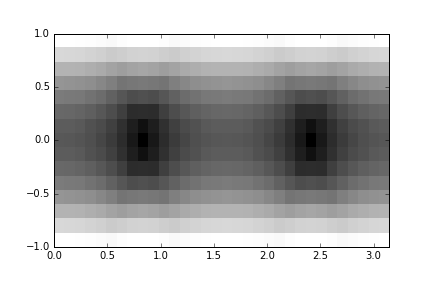
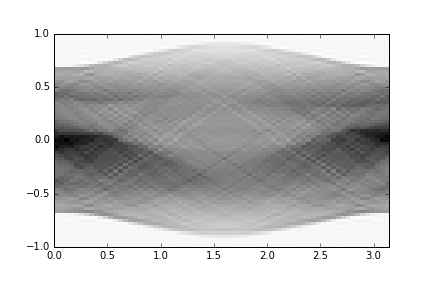
PFFT updates

diff --git a/pfft.py b/pfft.py
@@ -12,90 +12,124 @@ import warnings
 import matplotlib.pyplot as pp
 
 def fft(img):
-    nfft_zp_factor = 1.2
+    
     A = np.ones((11,11))
-    #A = pr.image_read( 'TomoData/PhantomData/sl.mat')
-    r,c = A.shape
+    A = pr.image_read('sl69.mat', dtype=np.float32)
+    
+    #padding to nearest 2*(N+1)+1 <--- to make odd
+    r1,c1 = A.shape
     global PAD, r
-    PAD = (r+3)/2
+    PAD = (r1+3)/2
     print(PAD)
     A = np.pad(A, PAD, 'minimum')
     r,c = A.shape
     
-    N = r-1
-    M = r-1
-    m = M
-    dtheta = np.pi/M
-    F = np.zeros((r,M))+0j
+    #Set various endpoints and midpoints
+    N = r-1 #N, as used in II.5,II.6,II.9,II.10 etc.
+    M = r1-1 #number of radial lines (not including 180degrees)
+    m = M # assigning m for use in loop
+    CTR = (N+1)/2
+    ACTR = M/2
+    dtheta = np.pi/M 
+    
+    
     
     if np.mod(M,4) == 0:
         L = M/4
     elif np.mod(M,2) == 0:
         L = (M-2)/4
-
+     
+    print(L)
+    print('^^Required levels^^')   
+    #initialization of FFT and FrFT matrices
+    F = np.zeros((r,M))+0j
     fx = np.zeros((r,c))+0j
-    fy = np.zeros((r,c))+0j   
-    CTR = (N+1)/2
-    ACTR = M/2
-    print(ACTR)
-    C = range(-N/2,N/2 + 1)
-    R = C[::-1]
-    SN = C 
+    fy = np.zeros((r,c))+0j       
+
+    #map python indexes to -N/2 to N/2 cartesian grid
+    C = range(-N/2,N/2 + 1) #column mapping
+    R = C[::-1] #row mapping
+    SN = C #n sum mapping for FrFt
 
     for l in range(1,L+1):
         # scaling by alpha_l
         alpha = np.cos(l*dtheta)
+        
+        #loop for II.5, II.6
         for i in range(0,r) :
             for j in range (0,c) :
                 fx[i,j]= 0
+                #n summation loop
                 for n in range(0,r):
                     #II.5 FrFT along rows
                     fx[i,j] = fx[i,j] + A[i,n]*np.exp(-1j*2*np.pi*C[j]*alpha*SN[n]/(N+1))
-        
-        for j in range (0,c) :  
-            for i in range(0,r) :
-                fy[i,j] = 0
-                for n in range(0,c):
-                    #II.6 FrFT along columns
-                    fy[i,j] = fy[i,j] + A[n,j]*np.exp(-1j*2*np.pi*R[i]*alpha*SN[n]/(N+1))
+       
+        #conditional loop to accomodate doubly even angles
+        if (m%4==0) & (l == L):
+            pass #on the last level, skip extra calcs (only for doubly even M)
+        else:
+            for j in range (0,c) :  
+                for i in range(0,r) :
+                    fy[i,j] = 0
+                    #n summation loop
+                    for n in range(0,c):
+                        #II.6 FrFT along columns
+                        fy[i,j] = fy[i,j] + A[n,j]*np.exp(-1j*2*np.pi*R[i]*alpha*SN[n]/(N+1))
        
         #Scaling by Beta_l
         beta = np.sin(l*dtheta)
+        
+        #initialization of radial lines that will be overwritten and stored later
         Fx1 = np.zeros((1,r))+0j
         Fx2 = np.zeros((1,r))+0j
         Fy1 = np.zeros((1,r))+0j
         Fy2 = np.zeros((1,r))+0j
         Fzero = np.zeros((1,r))+0j
         Fninety = np.zeros((1,r))+0j
+        
+        #main loop II.9,II.10 completion of 2-D FFT
         for k in range(0,r):
+            
+            #p is the offset from center row or axis. this is necessary to computer
+            #only the required points on the polar grid. The origin is included in 
+            #every radial line and p changes sign after the origin point. 
             p = l
             if k == CTR:
                 p = 0
             if k>CTR:
                 p = -l    
+            
+            #n summation loop    
             for n in range(0,r):
                 #II.9 Completion of 2-D FFT scaled X then Y axis
                 Fx1[0,k]    = Fx1[0,k] +    fx[n,k]   *np.exp(-1j*2*np.pi*abs(C[k])*R[CTR-p]*beta*SN[n]/(l*(N+1)))
-                Fx2[0,-k-1] = Fx2[0,-k-1] + fx[n,-k-1]*np.exp(-1j*2*np.pi*abs(C[-k-1])*R[CTR+p]*beta*SN[n]/(l*(N+1)))
+                Fx2[0,k] = Fx2[0,k] + fx[n,k]*np.exp(-1j*2*np.pi*abs(C[k])*R[CTR+p]*beta*SN[n]/(l*(N+1)))
                 
-                #II.10 Completion of 2-D FFT scaled Y then X axis
-                Fy1[0,k] = Fy1[0,k] + fy[k,n]*np.exp(-1j*2*np.pi*abs(R[k])*C[CTR+p]*beta*SN[n]/(l*(N+1)))
-                Fy2[0,k] = Fy2[0,k] + fy[k,n]*np.exp(-1j*2*np.pi*abs(R[k])*C[CTR-p]*beta*SN[n]/(l*(N+1)))
-                # 0 and 90 degree radial lines
+                if (m%4==0) & (l == L):
+                    pass
+                else:
+                    #II.10 Completion of 2-D FFT scaled Y then X axis
+                    Fy1[0,k] = Fy1[0,k] + fy[k,n]*np.exp(-1j*2*np.pi*abs(R[k])*C[CTR+p]*beta*SN[n]/(l*(N+1)))
+                    Fy2[0,k] = Fy2[0,k] + fy[k,n]*np.exp(-1j*2*np.pi*abs(R[k])*C[CTR-p]*beta*SN[n]/(l*(N+1)))
+                    # 0 and 90 degree radial lines
                 if l ==1:
                     Fzero[0,k] = Fzero[0,k] + fy[CTR,n]*np.exp(-1j*2*np.pi*C[k]*SN[n]/(l*(N+1)))
                     Fninety[0,k] = Fninety[0,k] + fx[n,CTR]*np.exp(-1j*2*np.pi*R[k]*SN[n]/(l*(N+1)))    
             
-            # II.11 storing 4 radial lines
-            F[:,l] = Fx1
+            # II.11 storing 4 radial lines, flips ensure storing in correct orientation (right to left)
+            F[:,l] = np.fliplr(Fx1)
             F[:,m-l] = Fx2
-            F[:,ACTR+l]= Fy1
-            F[:,ACTR-l]= Fy2
+            
+            if (m%4==0) & (l == L):
+                pass
+            else:
+                F[:,ACTR+l]= np.fliplr(Fy1)
+                F[:,ACTR-l]= np.fliplr(Fy2)
             # Storing 0 and 90 degree radial lines
             if l ==1 :
-               F[:,0] = Fzero
-               F[:,ACTR] = Fninety
-            print(l)
+               F[:,0] = np.fliplr(Fzero)
+               F[:,ACTR] = np.fliplr(Fninety)
+        print(l)
     return F
           
 def adjoint(img):
@@ -104,22 +138,31 @@ def adjoint(img):
 
 if __name__ == "__main__":
     Kino = fft(1)
+    #flip the rows of the 2-D fft before shifting
     L = range(0,r)
     L = L[::-1]
     print(L)
     Kino = Kino[L,:]
+    
+    #fftshift to center around 0 frequency
     Kino = np.fft.fftshift(Kino, axes = (0,))
     print(Kino.shape)
-    Kino = pr.image(Kino, top_left = (0,1), bottom_right = (math.pi,-1))
+    
+    # perform ifft along each radial line to get radon transform (Fourier Slice Theorem)
     result = np.fft.ifft(Kino, axis = 0)
     Kino = pr.image(Kino, top_left = (0,1), bottom_right = (math.pi,-1))
+    
     # Shift result:
     result = np.fft.ifftshift( result, axes = ( 0, ) )
+    
+    #adjust for padding
     result = result[PAD+1:-PAD+1,:]  
     print(result.shape)
     result = np.real( result )
+    
     # Normalize:
-    result /= ( 0.5 * ( 11 - 1 ) )
+    result /= ( 0.5 * ( r - 1 ) )
+    
     #print
     result = pr.image(result, top_left = (0,1), bottom_right = (math.pi,-1))
     pp.imshow(result,cmap = 'gray_r', interpolation = 'nearest', 
